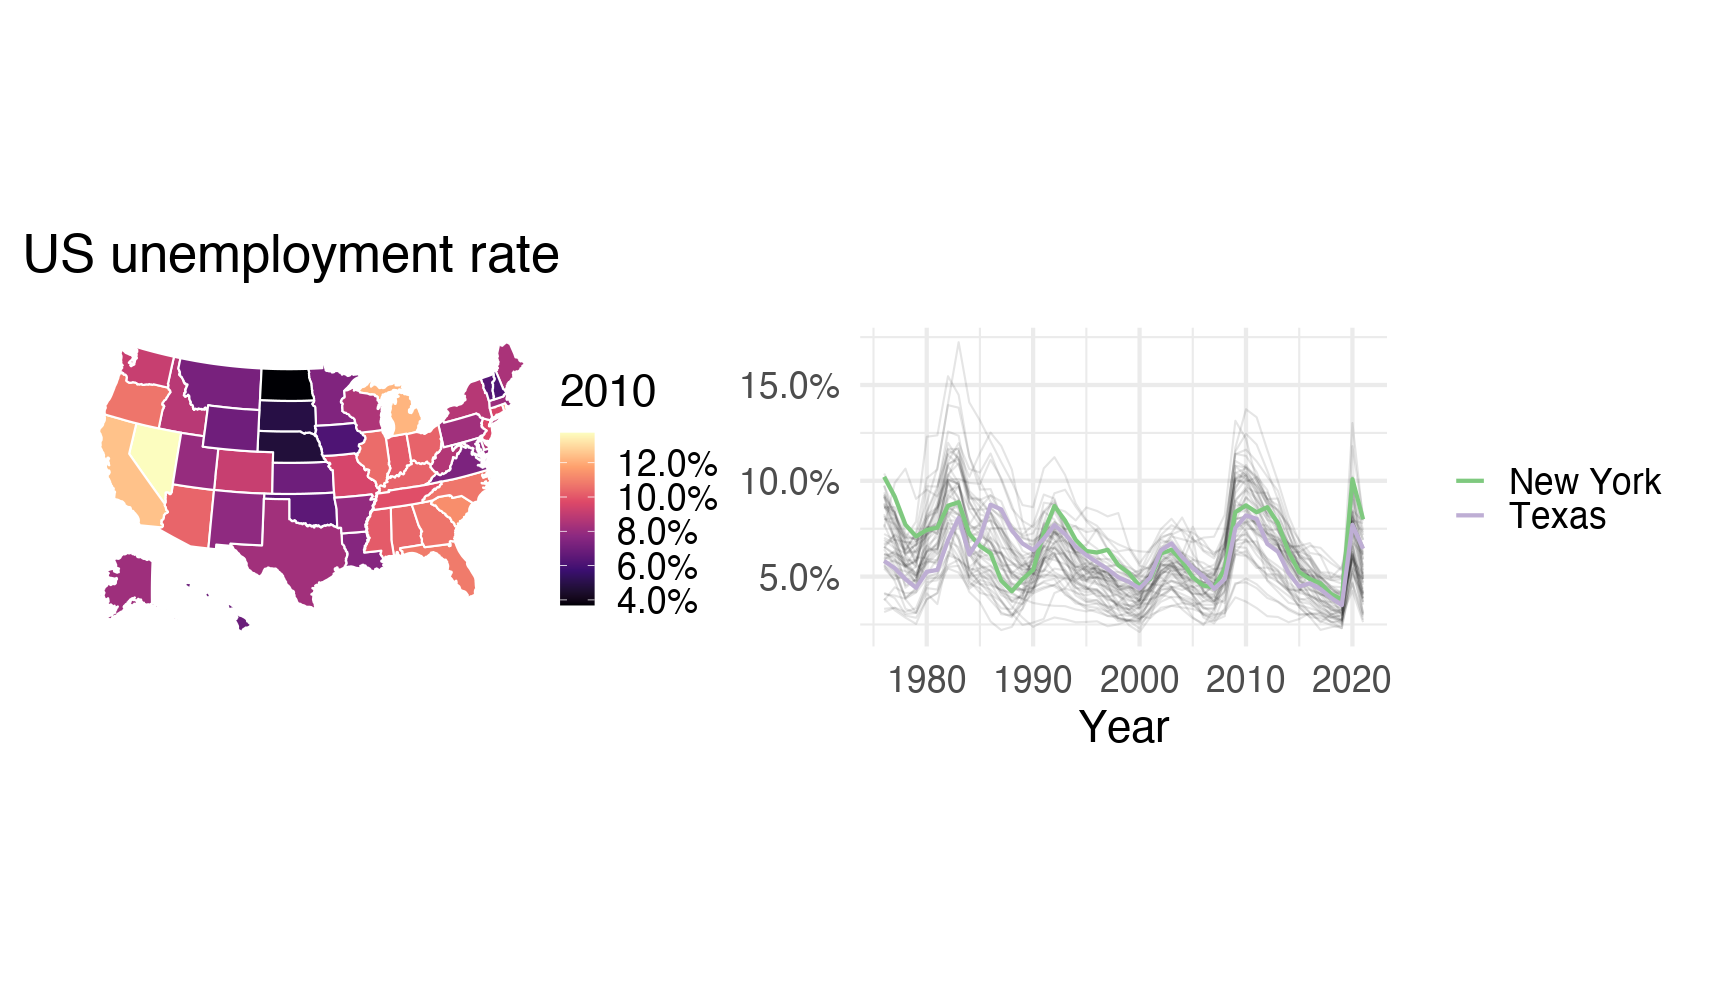
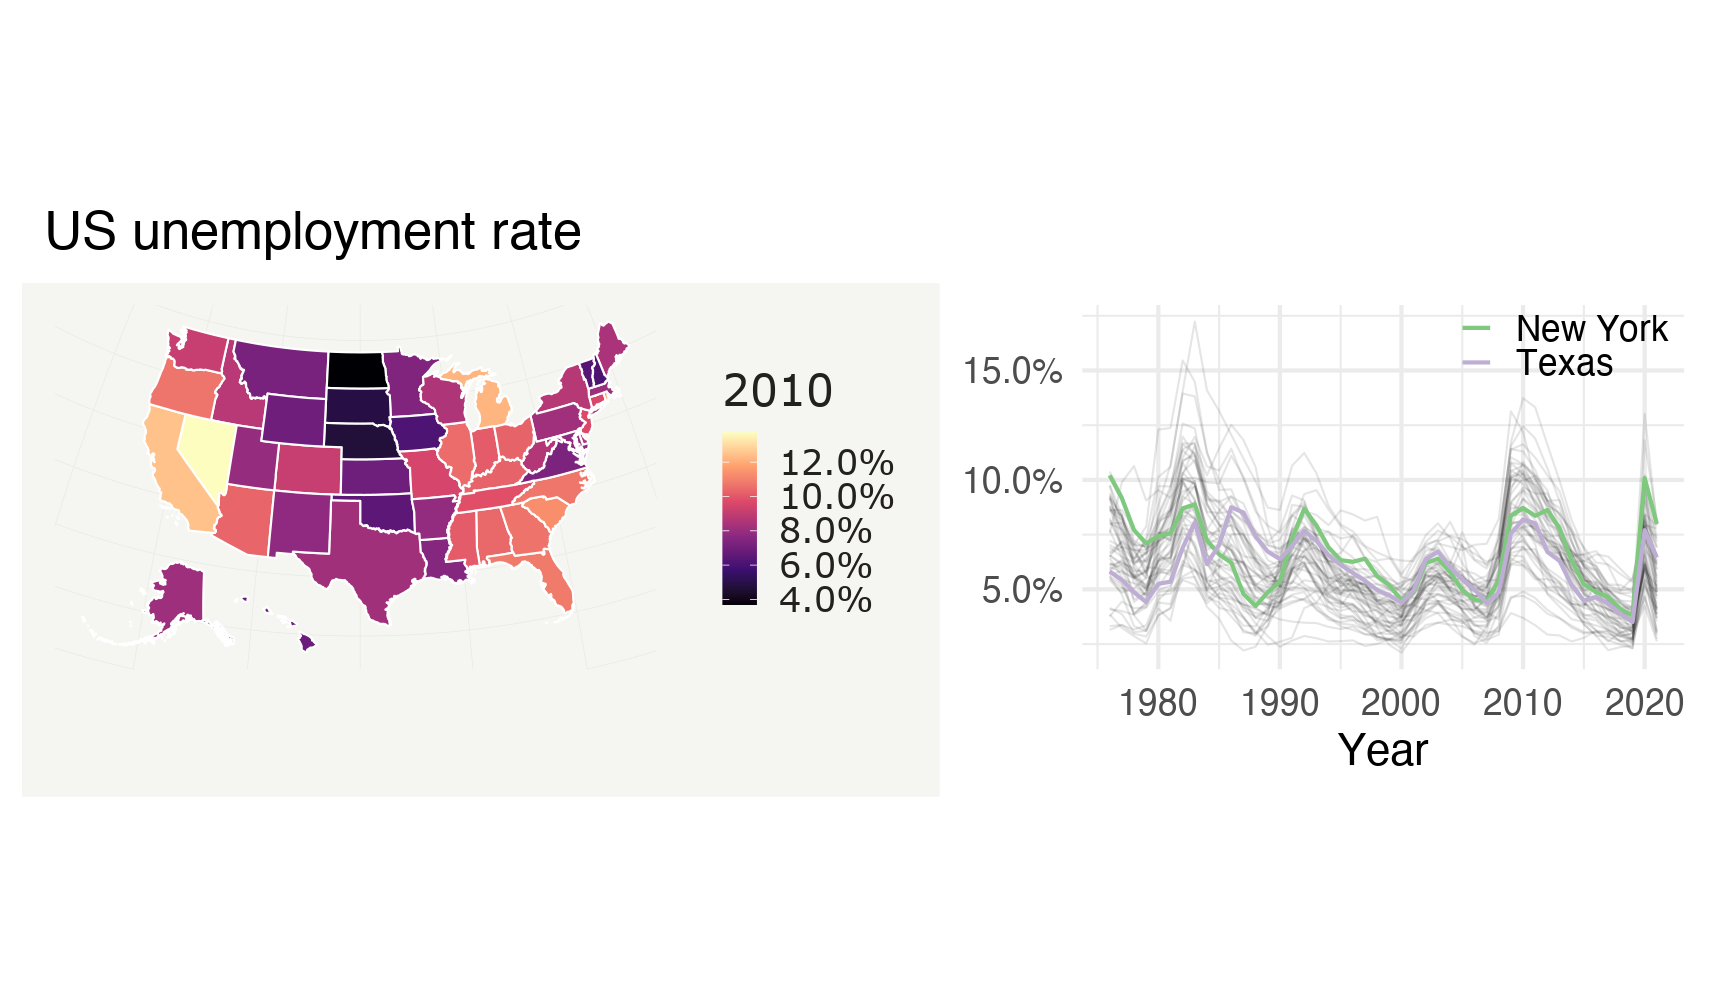
Use map theme for maps to increase readability. Disable legend when color duplicates existing information. Reknit slides from cleared cache.

diff --git a/slides/index.html b/slides/index.html
@@ -281,28 +281,28 @@ ggplot(data = gss_polviews, mapping = aes(x = polviews, fill = polviews)) +
 
 ---
 
+# `scale_*_brewer()`
+
+
+
+
+```r
+ggplot(data = gss_polviews, mapping = aes(x = polviews, fill = polviews)) +
+  geom_bar() +
+  scale_fill_brewer(type = "seq", guide = FALSE)
+```
+
+&lt;img src="index_files/figure-html/unnamed-chunk-34-1.png" width="864" /&gt;
+
+---
+
 # Sequential palette
 
 
 ```r
 ggplot(data = gss_polviews, mapping = aes(x = polviews, fill = polviews)) +
   geom_bar() +
-  scale_fill_brewer(palette = "OrRd")
-```
-
-&lt;img src="index_files/figure-html/unnamed-chunk-33-1.png" width="864" /&gt;
-
----
-
-# Qualitative palette
-
-
-
-
-```r
-ggplot(data = gss_relig, mapping = aes(x = relig, fill = relig)) +
-  geom_bar() +
-  scale_fill_brewer()
+  scale_fill_brewer(palette = "OrRd", guide = FALSE)
 ```
 
 &lt;img src="index_files/figure-html/unnamed-chunk-35-1.png" width="864" /&gt;
@@ -312,13 +312,28 @@ ggplot(data = gss_relig, mapping = aes(x = relig, fill = relig)) +
 # Qualitative palette
 
 
+
+
 ```r
 ggplot(data = gss_relig, mapping = aes(x = relig, fill = relig)) +
   geom_bar() +
-  scale_fill_brewer(type = "qual")
+  scale_fill_brewer(guide = FALSE)
 ```
 
-&lt;img src="index_files/figure-html/unnamed-chunk-36-1.png" width="864" /&gt;
+&lt;img src="index_files/figure-html/unnamed-chunk-37-1.png" width="864" /&gt;
+
+---
+
+# Qualitative palette
+
+
+```r
+ggplot(data = gss_relig, mapping = aes(x = relig, fill = relig)) +
+  geom_bar() +
+  scale_fill_brewer(type = "qual", guide = FALSE)
+```
+
+&lt;img src="index_files/figure-html/unnamed-chunk-38-1.png" width="864" /&gt;
 
 ---
 
@@ -333,7 +348,7 @@ ggplot(data = unemp_20, mapping = aes(fill = unemp)) +
   scale_fill_distiller()
 ```
 
-&lt;img src="index_files/figure-html/unnamed-chunk-38-1.png" width="864" /&gt;
+&lt;img src="index_files/figure-html/unnamed-chunk-40-1.png" width="864" /&gt;
 
 ---
 
@@ -346,25 +361,25 @@ ggplot(data = unemp_20, mapping = aes(fill = unemp)) +
   scale_fill_distiller(palette = "YlGn")
 ```
 
-&lt;img src="index_files/figure-html/unnamed-chunk-39-1.png" width="864" /&gt;
+&lt;img src="index_files/figure-html/unnamed-chunk-41-1.png" width="864" /&gt;
 
 ---
 
 # `viridis`
 
-&lt;img src="index_files/figure-html/unnamed-chunk-40-1.png" width="864" /&gt;
-
----
-
-# Comparison of palettes
-
-&lt;img src="index_files/figure-html/unnamed-chunk-41-1.png" width="864" /&gt;
-
----
-
-# Comparison of palettes
-
 &lt;img src="index_files/figure-html/unnamed-chunk-42-1.png" width="864" /&gt;
+
+---
+
+# Comparison of palettes
+
+&lt;img src="index_files/figure-html/unnamed-chunk-43-1.png" width="864" /&gt;
+
+---
+
+# Comparison of palettes
+
+&lt;img src="index_files/figure-html/unnamed-chunk-44-1.png" width="864" /&gt;
 
 ---
 
@@ -377,7 +392,7 @@ ggplot(data = unemp_20, mapping = aes(fill = unemp)) +
   scale_fill_viridis_c()
 ```
 
-&lt;img src="index_files/figure-html/unnamed-chunk-43-1.png" width="864" /&gt;
+&lt;img src="index_files/figure-html/unnamed-chunk-45-1.png" width="864" /&gt;
 
 ---
 
@@ -390,7 +405,7 @@ ggplot(data = unemp_20, mapping = aes(fill = unemp)) +
   scale_fill_viridis_c(option = "magma")
 ```
 
-&lt;img src="index_files/figure-html/unnamed-chunk-44-1.png" width="864" /&gt;
+&lt;img src="index_files/figure-html/unnamed-chunk-46-1.png" width="864" /&gt;
 
 ---
 
@@ -400,10 +415,10 @@ ggplot(data = unemp_20, mapping = aes(fill = unemp)) +
 ```r
 ggplot(data = gss_polviews, mapping = aes(x = polviews, fill = polviews)) +
   geom_bar() +
-  scale_fill_viridis_d()
+  scale_fill_viridis_d(guide = FALSE)
 ```
 
-&lt;img src="index_files/figure-html/unnamed-chunk-45-1.png" width="864" /&gt;
+&lt;img src="index_files/figure-html/unnamed-chunk-47-1.png" width="864" /&gt;
 
 ---
 
@@ -411,7 +426,7 @@ class: middle, center, inverse
 
 # Exercise on implementing palettes
 
-<div class="countdown" id="timer_61803283" style="right:0;bottom:0;" data-warnwhen="0">
+<div class="countdown" id="timer_618193d7" style="right:0;bottom:0;" data-warnwhen="0">
 <code class="countdown-time"><span class="countdown-digits minutes">08</span><span class="countdown-digits colon">:</span><span class="countdown-digits seconds">00</span></code>
 </div>
 
@@ -453,13 +468,13 @@ class: middle, center, inverse
 
 
 
-&lt;img src="index_files/figure-html/unnamed-chunk-51-1.png" width="864" /&gt;
+&lt;img src="index_files/figure-html/unnamed-chunk-53-1.png" width="864" /&gt;
 
 ---
 
 # Emphasize extremes
 
-&lt;img src="index_files/figure-html/unnamed-chunk-52-1.png" width="864" /&gt;
+&lt;img src="index_files/figure-html/unnamed-chunk-54-1.png" width="864" /&gt;
 
 ---
 
@@ -481,10 +496,10 @@ class: middle, center, inverse
 ```r
 ggplot(data = gss_polviews, mapping = aes(x = polviews, fill = polviews)) +
   geom_bar() +
-  scale_fill_brewer(type = "div")
+  scale_fill_brewer(type = "div", guide = FALSE)
 ```
 
-&lt;img src="index_files/figure-html/unnamed-chunk-55-1.png" width="864" /&gt;
+&lt;img src="index_files/figure-html/unnamed-chunk-57-1.png" width="864" /&gt;
 
 ---
 
@@ -497,7 +512,7 @@ ggplot(data = unemp_20, mapping = aes(fill = unemp)) +
   scale_fill_distiller(type = "div")
 ```
 
-&lt;img src="index_files/figure-html/unnamed-chunk-56-1.png" width="864" /&gt;
+&lt;img src="index_files/figure-html/unnamed-chunk-58-1.png" width="864" /&gt;
 
 ---
 
@@ -510,7 +525,7 @@ ggplot(data = unemp_20, mapping = aes(fill = unemp)) +
   scale_fill_viridis_c(option = "turbo")
 ```
 
-&lt;img src="index_files/figure-html/unnamed-chunk-57-1.png" width="864" /&gt;
+&lt;img src="index_files/figure-html/unnamed-chunk-59-1.png" width="864" /&gt;
 
 ---
 
@@ -518,7 +533,7 @@ class: center, middle, inverse
 
 # Exercise on diverging palettes
 
-<div class="countdown" id="timer_61802ffe" style="right:0;bottom:0;" data-warnwhen="0">
+<div class="countdown" id="timer_618195e4" style="right:0;bottom:0;" data-warnwhen="0">
 <code class="countdown-time"><span class="countdown-digits minutes">08</span><span class="countdown-digits colon">:</span><span class="countdown-digits seconds">00</span></code>
 </div>
 
@@ -540,31 +555,31 @@ class: center, middle, inverse
 
 
 
-&lt;img src="index_files/figure-html/unnamed-chunk-62-1.png" width="864" /&gt;
+&lt;img src="index_files/figure-html/unnamed-chunk-64-1.png" width="864" /&gt;
 
 ---
 
 # Communicating general patterns
 
-&lt;img src="index_files/figure-html/unnamed-chunk-63-1.png" width="864" /&gt;
+&lt;img src="index_files/figure-html/unnamed-chunk-65-1.png" width="864" /&gt;
 
 ---
 
 # Increased classes for more nuance
 
-&lt;img src="index_files/figure-html/unnamed-chunk-64-1.png" width="864" /&gt;
+&lt;img src="index_files/figure-html/unnamed-chunk-66-1.png" width="864" /&gt;
 
 ---
 
 # Assisting with interpretations
 
-&lt;img src="index_files/figure-html/unnamed-chunk-65-1.png" width="864" /&gt;
+&lt;img src="index_files/figure-html/unnamed-chunk-67-1.png" width="864" /&gt;
 
 ---
 
 # Directly encoding values
 
-&lt;img src="index_files/figure-html/unnamed-chunk-66-1.png" width="864" /&gt;
+&lt;img src="index_files/figure-html/unnamed-chunk-68-1.png" width="864" /&gt;
 
 ---
 
@@ -577,37 +592,37 @@ class: center, middle, inverse
 
 # Linear
 
-&lt;img src="index_files/figure-html/unnamed-chunk-67-1.png" width="864" /&gt;
+&lt;img src="index_files/figure-html/unnamed-chunk-69-1.png" width="864" /&gt;
 
 ---
 
 # Linear
 
-&lt;img src="index_files/figure-html/unnamed-chunk-68-1.png" width="864" /&gt;
+&lt;img src="index_files/figure-html/unnamed-chunk-70-1.png" width="864" /&gt;
 
 ---
 
 # Quartiles
 
-&lt;img src="index_files/figure-html/unnamed-chunk-69-1.png" width="864" /&gt;
+&lt;img src="index_files/figure-html/unnamed-chunk-71-1.png" width="864" /&gt;
 
 ---
 
 # Quintiles
 
-&lt;img src="index_files/figure-html/unnamed-chunk-70-1.png" width="864" /&gt;
+&lt;img src="index_files/figure-html/unnamed-chunk-72-1.png" width="864" /&gt;
 
 ---
 
 # Deciles
 
-&lt;img src="index_files/figure-html/unnamed-chunk-71-1.png" width="864" /&gt;
+&lt;img src="index_files/figure-html/unnamed-chunk-73-1.png" width="864" /&gt;
 
 ---
 
 # Natural breaks
 
-&lt;img src="index_files/figure-html/unnamed-chunk-72-1.png" width="864" /&gt;
+&lt;img src="index_files/figure-html/unnamed-chunk-74-1.png" width="864" /&gt;
 
 ---
 
@@ -791,11 +806,11 @@ unemp_oct21 %&gt;%
 
 ---
 
-# Exercises on interpolating continuous variables
-
 class: middle, center, inverse
 
-<div class="countdown" id="timer_61802ff2" style="right:0;bottom:0;" data-warnwhen="0">
+# Exercises on interpolating continuous variables
+
+<div class="countdown" id="timer_618195ab" style="right:0;bottom:0;" data-warnwhen="0">
 <code class="countdown-time"><span class="countdown-digits minutes">07</span><span class="countdown-digits colon">:</span><span class="countdown-digits seconds">00</span></code>
 </div>
     </textarea>
